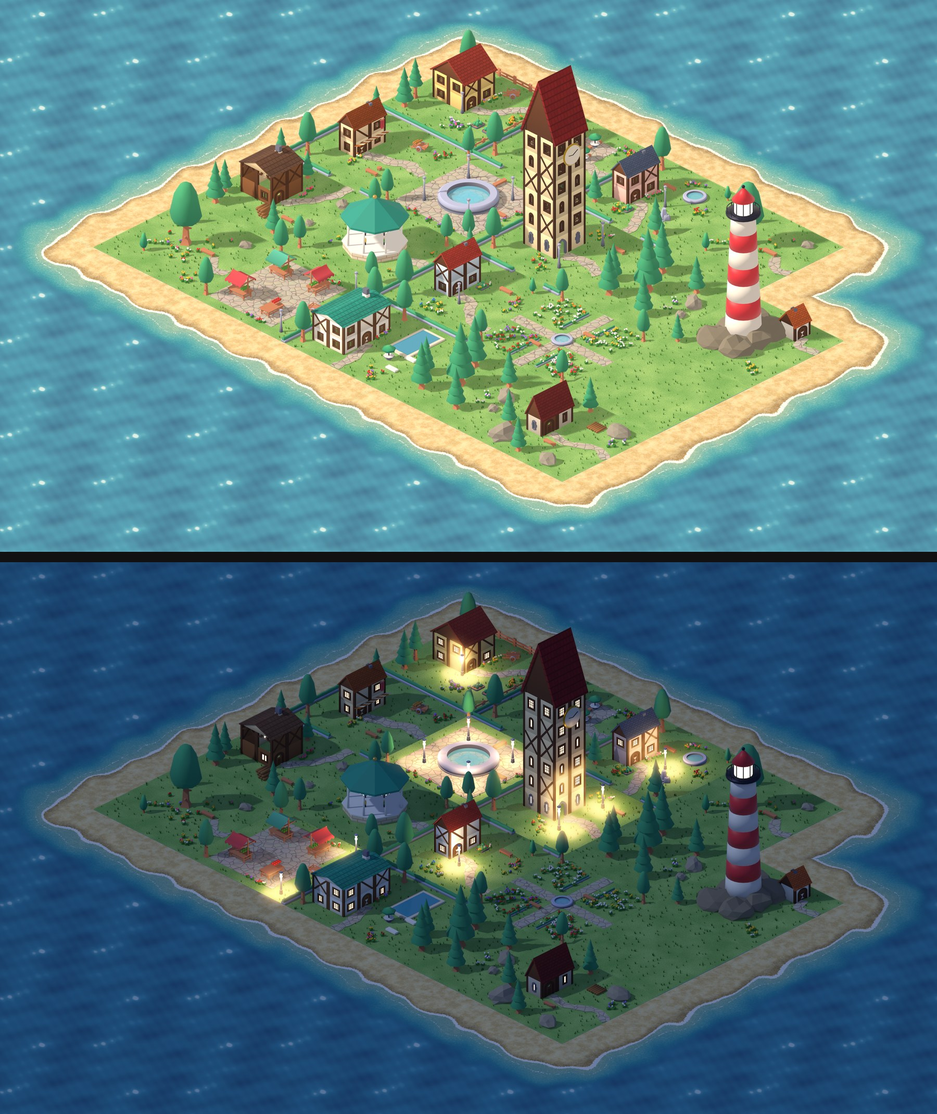
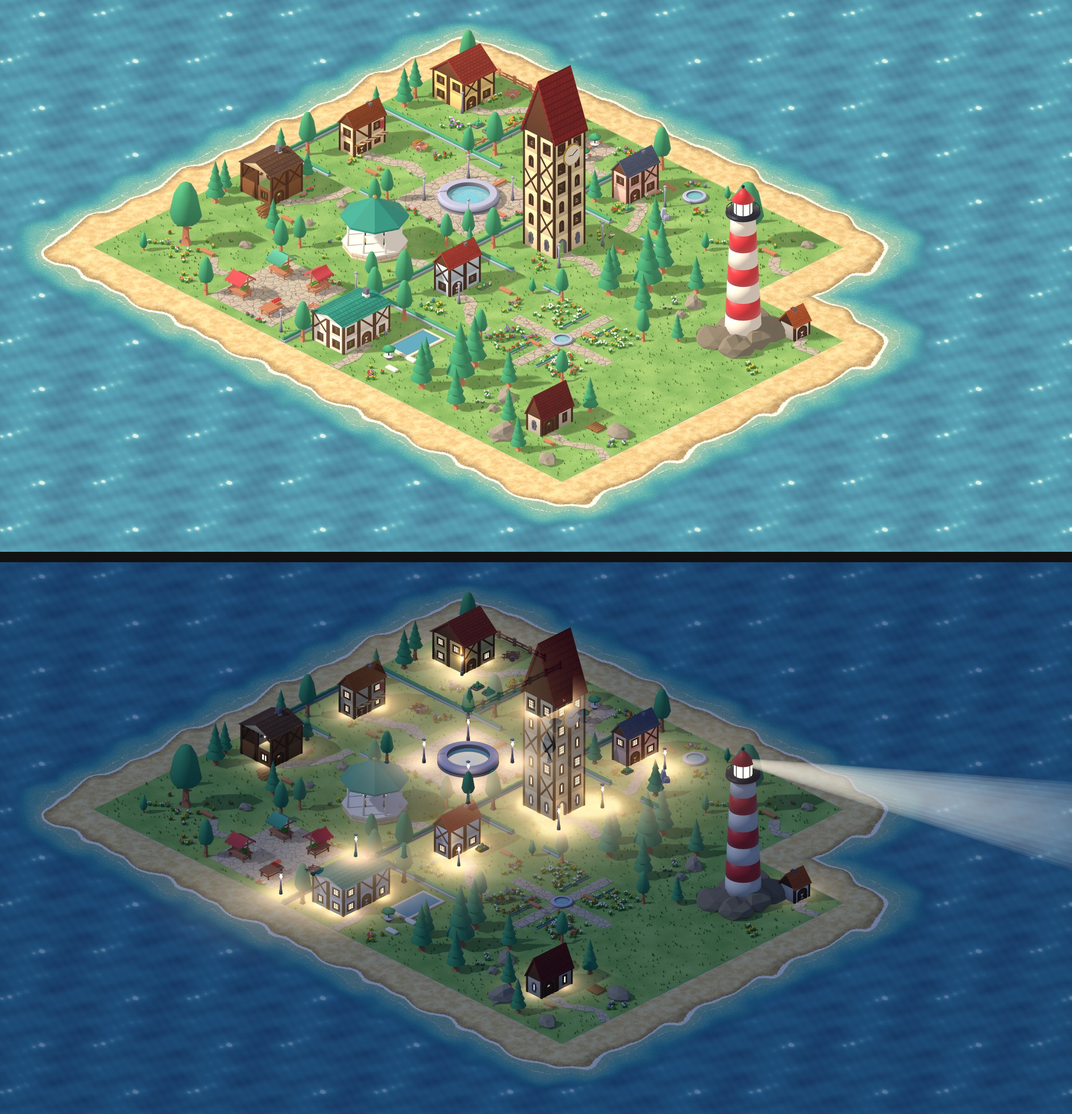
Atelier ville, mode nuit : lumière qui déborde des cases, faisceau du phare
Couche de lumière rendue à part (sol fictif qui s'efface sur une case et
demie autour, volumes en masque) et posée en mode écran : les halos des
lanternes et des fenêtres continuent sur les cases voisines. Le phare
projette un long faisceau vers la mer. Toujours hors appli.

diff --git a/atelier-ville/village.py b/atelier-ville/village.py
@@ -218,7 +218,7 @@ def appliquer_nuit(sc):
             x = sum(p.x for p in pts) / 8; y = sum(p.y for p in pts) / 8
             z0 = min(p.z for p in pts); z1 = max(p.z for p in pts)
             li = bpy.data.lights.new('lanterne', 'POINT')
-            li.energy = 30.0
+            li.energy = 5.0  # le halo au sol est dans la couche de lumière (déborde sur les cases voisines)
             li.color = LUMIERE
             li.shadow_soft_size = 0.05
             li.use_shadow = False  # la lumière sort de la lanterne (sinon sa tête fait écran)
@@ -235,6 +235,140 @@ def appliquer_nuit(sc):
             gb.inputs['Emission Color'].default_value = (*LUMIERE, 1)
             gb.inputs['Emission Strength'].default_value = 4.0
             g.data.materials.append(gm)
+
+
+
+def passe_lumiere(sc, chemin_png, lo, hi, marge=4.5, sens='d'):
+    """Couche de lumière de nuit, rendue à part sur fond noir et posée en mode « écran » par-dessus la ville :
+    halos des lanternes et des fenêtres sur un sol fictif qui déborde d'une case autour de la parcelle
+    (la lumière ne s'arrête plus au bord de la case), faisceau du phare. Les volumes du bâtiment masquent
+    la lumière qui passe derrière eux (holdout) sans faire d'ombre."""
+    # sol fictif et couverture plate : invisibles ; volumes : masques
+    for o in list(sc.objects):
+        if o.type != 'MESH':
+            continue
+        if o.name.startswith(('vitre', 'Sphere', 'feu-phare', 'faisceau')):
+            o.hide_render = True
+            continue
+        pts = [o.matrix_world @ Vector(c) for c in o.bound_box]
+        haut = max(p.z for p in pts) - min(p.z for p in pts)
+        if haut < 0.1 or o.name.startswith(('herbe', 'sable', 'sol', 'touffe')):
+            o.hide_render = True
+        else:
+            o.is_holdout = True
+            o.visible_shadow = False
+    for o in sc.objects:
+        if o.type == 'LIGHT' and o.data.type == 'SUN':
+            o.data.energy = 0.0
+        if o.type == 'LIGHT' and o.name.startswith('lanterne'):
+            o.data.energy = 17.0
+    sc.world.node_tree.nodes['Background'].inputs[1].default_value = 0.0
+    # petites flaques de lumière sous les fenêtres
+    for o in list(sc.objects):
+        if o.name.startswith('vitre'):
+            c = o.matrix_world @ Vector((0.45, 0, 0.45))
+            li = bpy.data.lights.new('fenetre', 'POINT')
+            li.energy = 2.2
+            li.color = LUMIERE
+            li.use_shadow = False
+            lo_ = bpy.data.objects.new('fenetre', li)
+            lo_.location = c
+            sc.collection.objects.link(lo_)
+    # sol fictif qui déborde sur les cases voisines
+    x0, x1, y0, y1 = lo.x - marge, hi.x + marge, lo.y - marge, hi.y + marge
+    me = bpy.data.meshes.new('sol-lumiere')
+    me.from_pydata([(x0, y0, 0.002), (x1, y0, 0.002), (x1, y1, 0.002), (x0, y1, 0.002)], [], [(0, 1, 2, 3)])
+    ms = bpy.data.materials.new('SolLumiere')
+    ms.use_nodes = True
+    b = ms.node_tree.nodes.get('Principled BSDF')
+    b.inputs['Roughness'].default_value = 1.0
+    # le sol fictif s'efface vers ses bords : aucune lumière ne s'arrête net
+    N, L = ms.node_tree.nodes, ms.node_tree.links
+    tc = N.new('ShaderNodeTexCoord'); sep = N.new('ShaderNodeSeparateXYZ'); L.new(tc.outputs['Generated'], sep.inputs[0])
+    bords = []
+    for i in (0, 1):
+        a = N.new('ShaderNodeMath'); a.operation = 'SUBTRACT'; a.inputs[0].default_value = 1.0; L.new(sep.outputs[i], a.inputs[1])
+        mn = N.new('ShaderNodeMath'); mn.operation = 'MINIMUM'; L.new(sep.outputs[i], mn.inputs[0]); L.new(a.outputs[0], mn.inputs[1])
+        bords.append(mn)
+    mn = N.new('ShaderNodeMath'); mn.operation = 'MINIMUM'; L.new(bords[0].outputs[0], mn.inputs[0]); L.new(bords[1].outputs[0], mn.inputs[1])
+    fad = N.new('ShaderNodeMapRange'); fad.interpolation_type = 'SMOOTHSTEP'
+    fad.inputs['From Min'].default_value = 0.0; fad.inputs['From Max'].default_value = 0.22
+    fad.inputs['To Min'].default_value = 0.0; fad.inputs['To Max'].default_value = 0.55
+    L.new(mn.outputs[0], fad.inputs['Value'])
+    L.new(fad.outputs['Result'], b.inputs['Base Color'])
+    me.materials.append(ms)
+    so = bpy.data.objects.new('sol-lumiere', me)
+    sc.collection.objects.link(so)
+    lo2, hi2 = Vector((x0, y0, lo.z)), Vector((x1, y1, hi.z))
+    # faisceau du phare : long cône lumineux vers la gauche de l'écran, au-dessus de la mer
+    feu = sc.objects.get('feu-phare')
+    if feu:
+        p = feu.matrix_world.translation + Vector((0, 0, 0.16))
+        # vers la droite de l'écran (côté façade) ; bâtiment tourné : vers la gauche
+        d = (Vector((0.72, 0.62, -0.17)) if sens == 'd' else Vector((-0.62, -0.72, -0.17))).normalized()
+        long = 10.5
+        faisceau(sc, p, d, long)
+        bout = p + d * long
+        lo2 = Vector((min(lo2.x, bout.x - 1.5), min(lo2.y, bout.y - 1.5), min(lo2.z, bout.z - 0.5)))
+        hi2 = Vector((max(hi2.x, bout.x + 1.5), max(hi2.y, bout.y + 1.5), hi2.z))
+        # sol fictif étendu jusqu'au bout du faisceau
+        so.data.vertices[0].co = (lo2.x, lo2.y, 0.002); so.data.vertices[1].co = (hi2.x, lo2.y, 0.002)
+        so.data.vertices[2].co = (hi2.x, hi2.y, 0.002); so.data.vertices[3].co = (lo2.x, hi2.y, 0.002)
+    sc.render.film_transparent = False
+    camera_for(sc, lo2, hi2)
+    sc.render.filepath = chemin_png
+    bpy.ops.render.render(write_still=True)
+    from bpy_extras.object_utils import world_to_camera_view
+    v = world_to_camera_view(sc, sc.camera, Vector((0, 0, 0)))
+    return {'ox': v.x * sc.render.resolution_x, 'oy': (1 - v.y) * sc.render.resolution_y}
+
+
+def faisceau(sc, p, d, long):
+    """Cône de lumière qui s'évase et s'éteint au loin, plus doux sur ses bords."""
+    n = 32
+    rot = Vector((0, 0, 1)).rotation_difference(d)
+    vs, fs = [], []
+    for k in range(n):
+        a = k / n * math.tau
+        for t, r in ((0.0, 0.08), (1.0, 1.35)):
+            loc = Vector((math.cos(a) * r, math.sin(a) * r, t * long))
+            vs.append(p + rot @ loc)
+    for k in range(n):
+        a, b = 2 * k, 2 * ((k + 1) % n)
+        fs.append((a, b, b + 1, a + 1))
+    me = bpy.data.meshes.new('faisceau')
+    me.from_pydata(vs, [], fs)
+    uv = me.uv_layers.new()
+    for poly in me.polygons:
+        for li in poly.loop_indices:
+            vi = me.loops[li].vertex_index
+            uv.data[li].uv = (0, 0.0 if vi % 2 == 0 else 1.0)
+    m = bpy.data.materials.new('Faisceau')
+    m.use_nodes = True
+    N, L = m.node_tree.nodes, m.node_tree.links
+    for x in list(N):
+        if x.type != 'OUTPUT_MATERIAL':
+            N.remove(x)
+    out = next(x for x in N if x.type == 'OUTPUT_MATERIAL')
+    em = N.new('ShaderNodeEmission'); em.inputs['Color'].default_value = (1.0, 0.92, 0.72, 1)
+    tc = N.new('ShaderNodeTexCoord'); sep = N.new('ShaderNodeSeparateXYZ'); L.new(tc.outputs['UV'], sep.inputs[0])
+    fad = N.new('ShaderNodeMapRange'); fad.interpolation_type = 'SMOOTHSTEP'
+    fad.inputs['From Min'].default_value = 0.0; fad.inputs['From Max'].default_value = 1.0
+    fad.inputs['To Min'].default_value = 1.0; fad.inputs['To Max'].default_value = 0.0
+    L.new(sep.outputs[1], fad.inputs['Value'])
+    lw = N.new('ShaderNodeLayerWeight'); lw.inputs['Blend'].default_value = 0.5
+    inv = N.new('ShaderNodeMath'); inv.operation = 'SUBTRACT'; inv.inputs[0].default_value = 1.0
+    L.new(lw.outputs['Facing'], inv.inputs[1])
+    pw = N.new('ShaderNodeMath'); pw.operation = 'POWER'; pw.inputs[1].default_value = 2.0
+    L.new(inv.outputs[0], pw.inputs[0])
+    f = N.new('ShaderNodeMath'); f.operation = 'MULTIPLY'; L.new(fad.outputs['Result'], f.inputs[0]); L.new(pw.outputs[0], f.inputs[1])
+    f2 = N.new('ShaderNodeMath'); f2.operation = 'MULTIPLY'; f2.inputs[1].default_value = 0.42; L.new(f.outputs[0], f2.inputs[0])
+    L.new(f2.outputs[0], em.inputs['Strength'])
+    L.new(em.outputs[0], out.inputs['Surface'])
+    me.materials.append(m)
+    o = bpy.data.objects.new('faisceau-lum', me)
+    sc.collection.objects.link(o)
+    return o
 
 
 _lib = {}

diff --git a/atelier-ville/batiments.py b/atelier-ville/batiments.py
@@ -732,7 +732,9 @@ def b_phare():
     for p in pts[::2]:
         c.poutre((p[0], p[1], zt + 0.05), p, 0.01)
     o.append(c.objet('rambarde', mat('#2b2d42', 0.5, 0.5)))
-    o.append(cyl(r1 * 0.75, 0.32, (0, 0.2, zt + 0.05), mat('#ffe7a3', 0.2, 0, 6.0), n=16))
+    feu = cyl(r1 * 0.75, 0.32, (0, 0.2, zt + 0.05), mat('#ffe7a3', 0.2, 0, 6.0), n=16)
+    feu.name = 'feu-phare'
+    o.append(feu)
     for k in range(8):
         a = k / 8 * math.tau
         o.append(cyl(0.012, 0.32, (math.cos(a) * r1 * 0.77, 0.2 + math.sin(a) * r1 * 0.77, zt + 0.05), mat('#2b2d42'), n=6))
@@ -1542,6 +1544,11 @@ def rendre(bid, sens, out):
     v = world_to_camera_view(sc, sc.camera, Vector((0, 0, 0)))
     with open(os.path.join(out, f'{nom}.json'), 'w') as f:
         json.dump({'ox': v.x * sc.render.resolution_x, 'oy': (1 - v.y) * sc.render.resolution_y, 'ppu': PX_PER_UNIT, 'taille': n}, f)
+    if NUIT:
+        # couche de lumière (halos qui débordent sur les cases voisines, faisceau du phare)
+        m = passe_lumiere(sc, os.path.join(out, f'{nom}-lum.png'), lo, hi, sens=sens)
+        with open(os.path.join(out, f'{nom}-lum.json'), 'w') as f:
+            json.dump({**m, 'ppu': PX_PER_UNIT, 'taille': n}, f)
     print(f'[atelier] {nom}')
 
 
